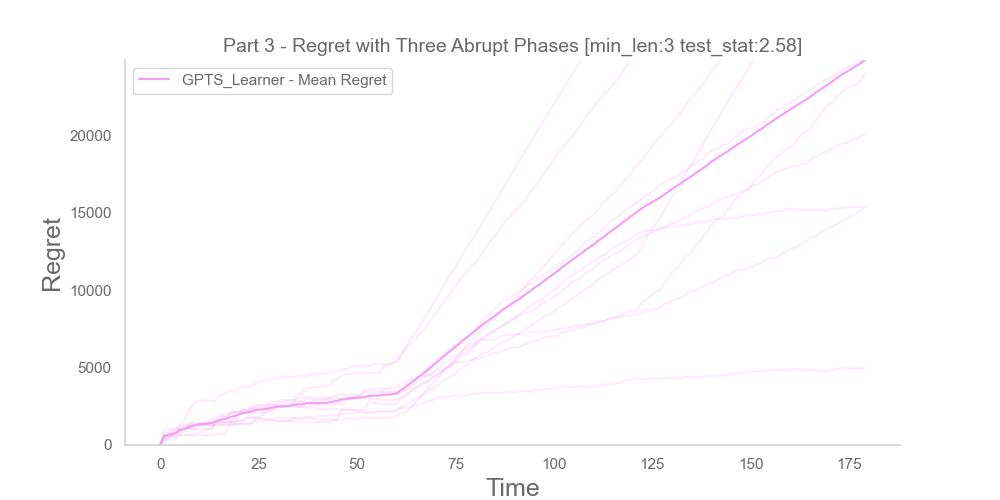
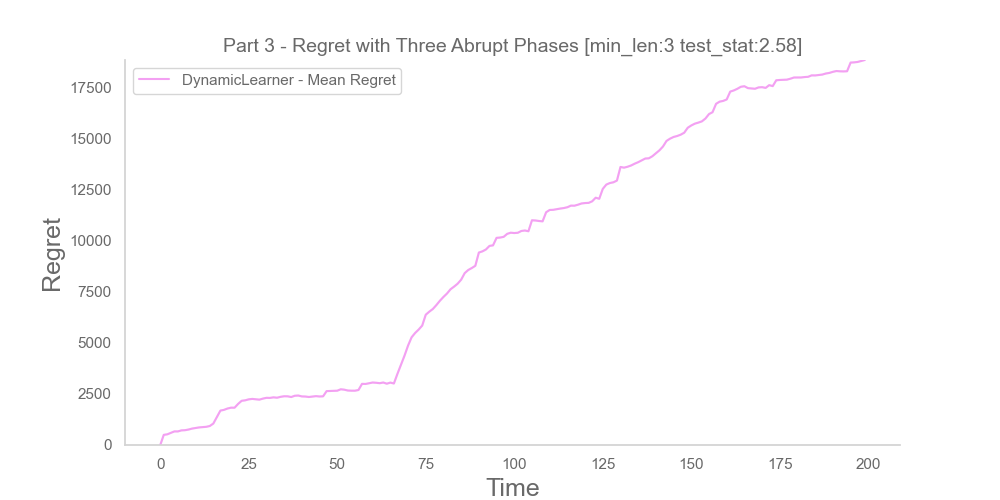
final test for part 3

diff --git a/project/part_3/Testing_part3.py b/project/part_3/Testing_part3.py
@@ -6,7 +6,7 @@ import numpy as np
 
 from project.dia_pckg.Config import *
 from project.dia_pckg.plot_style.cb91visuals import *
-from project.part_2.GPTS_Learner import GPTS_Learner as Learner
+from project.part_2.GP_Learner import GP_Learner as Learner
 from project.part_2.Learning_experiment import execute_experiment
 from project.part_2.Utils import compute_clairvoyant
 from project.part_3.AbruptBiddingEnvironment import AbruptBiddingEnvironment
@@ -14,18 +14,18 @@ from project.part_3.DLChangeDetect import DLChangeDetect
 from project.part_3.DynamicLearner import DynamicLearner
 
 
-def test_part3(n_experiments=3,
+def test_part3(n_experiments=25,
                chart_path='other_files/testing_part3.png',
                title='Part 3 - Regret with Three Abrupt Phases',
+               win_length=30,
                dl_change_detect_min_len=3,
-               dl_change_detect_test_stat=3):
+               dl_change_detect_test_stat=2.58):
     np.random.seed(0)
 
     bids = np.linspace(0, max_bid, n_arms_advertising)
     args = []
 
     learners_types = [Learner, DynamicLearner, DLChangeDetect]
-    
     for i in range(n_experiments):
         env_i = AbruptBiddingEnvironment(bids)
         for learner in learners_types:
@@ -36,6 +36,7 @@ def test_part3(n_experiments=3,
                 'n_subcamp': n_subcamp,
                 'n_arms': n_arms_advertising,
                 'n_obs': n_days,
+                'win_length': win_length,
                 'dl_change_detect_min_len': dl_change_detect_min_len,
                 'dl_change_detect_test_stat': dl_change_detect_test_stat
             }
@@ -65,7 +66,7 @@ def test_part3(n_experiments=3,
             opt_phase_clicks = compute_clairvoyant(args['environment'], phase=phase)[1]
             opt_clicks[int(phase * phase_len):int((phase + 1) * phase_len)] = opt_phase_clicks
             #TODO: rimuovere, è per il testing
-            print('Optimal [phase = ' + str(phase) + ']: ' + str(opt_phase_clicks) + str(compute_clairvoyant(args['environment'], phase=phase)[0]))
+            ## print('Optimal [phase = ' + str(phase) + ']: ' + str(opt_phase_clicks) + str(compute_clairvoyant(args['environment'], phase=phase)[0]))
         # adding to dictionary
         if learner_name in list(opt_clicks_per_experiments.keys()):
             opt_clicks_per_experiments[learner_name].append(opt_clicks)
@@ -95,14 +96,12 @@ def test_part3(n_experiments=3,
 
 
 if __name__ == '__main__':
-    min_lens = [4]#[1, 2, 3, 4, 5]
-    #test_stats = [2.5, 3, 4, 5]
-    test_stat = 2.58
 
     for min_len in min_lens:
-        #for test_stat in test_stats:
-        test_part3(n_experiments=1,
-                   chart_path=f'other_files/part3_min-len{min_len}_test-stat{test_stat}.png',
-                   title=f'Part 3 - Regret with Three Abrupt Phases [min_len:{min_len} test_stat:{test_stat}]',
-                   dl_change_detect_min_len=min_len,
-                   dl_change_detect_test_stat=test_stat)
+        for lw in multiple_len_window:
+            test_part3(n_experiments=25,
+                       chart_path=f'other_files/part3_min-len{min_len}_test-stat{z_score}_window_length:{lw}.png',
+                       title=f'Part 3 - Regret with Three Abrupt Phases [min_len:{min_len} z_score:{z_score} window_length:{lw}]',
+                       win_length=lw,
+                       dl_change_detect_min_len=min_len,
+                       dl_change_detect_test_stat=z_score)

diff --git a/project/TestingOneShot.py b/project/TestingOneShot.py
@@ -3,6 +3,8 @@ import sys
 from datetime import datetime
 import numpy as np
 
+
+from project.dia_pckg.Config import *
 from project.part_2.Testing_part2 import test_part2
 from project.part_3.Testing_part3 import test_part3
 from project.part_4.Testing_Env_4 import test_part4
@@ -11,7 +13,7 @@ from project.part_6.Testing_Env_6 import test_part6
 from project.part_7_binomial.Testing_Env_7 import test_part7 as t7_binomial
 from project.part_7_normal.Testing_Env_7 import test_part7 as t7_normal
 
-n_experiment = 1
+n_experiment = 25
 np.random.seed(0)
 
 testing_setup = {
@@ -81,16 +83,14 @@ if __name__ == '__main__':
         # PART 3
         print_('PART 3')
 
-        min_lens = [4]#[3, 4, 5, 6, 7]
-        test_stat = 2.58
-
         for min_len in min_lens:
-            # for test_stat in test_stats:
-            test_part3(n_experiments=n_experiment,
-                       chart_path=f'{charts_path}/part3_min-len{min_len}_test-stat{test_stat}.png',
-                       title=f'Part 3 - Regret with Three Abrupt Phases [min_len:{min_len} test_stat:{test_stat}]',
-                       dl_change_detect_min_len=min_len,
-                       dl_change_detect_test_stat=test_stat)
+            for lw in multiple_len_window:
+                test_part3(n_experiments=n_experiment,
+                           chart_path=f'{charts_path}/part3_min-len{min_len}_z_score{z_score}.png',
+                           title=f'Part 3 - Regret with Three Abrupt Phases [min_len:{min_len} z_score:{z_score} window_length:{lw}]',
+                           win_length=lw,
+                           dl_change_detect_min_len=min_len,
+                           dl_change_detect_test_stat=z_score)
             print_(f'Sub-test completed.\n'
                    f'Time: {datetime.now()}\n')
         print_(f'Test completed.\n'
@@ -181,14 +181,14 @@ if __name__ == '__main__':
         for artificial_noise_ADV in artificial_noise_ADVs:
             for artificial_noise_CR in artificial_noise_CRs:
                 t7_binomial(n_experiments=n_experiment,
-                           demand_chart_path=demand_curves_chart_path,
-                           demand_chart_title=demand_curves_title,
-                           artificial_noise_ADV=artificial_noise_ADV,
-                           artificial_noise_CR=artificial_noise_CR,
-                           results_chart_path=f'{charts_path}/part7_'
+                            demand_chart_path=demand_curves_chart_path,
+                            demand_chart_title=demand_curves_title,
+                            artificial_noise_ADV=artificial_noise_ADV,
+                            artificial_noise_CR=artificial_noise_CR,
+                            results_chart_path=f'{charts_path}/part7_'
                                               f'artificial-noise-ADV{artificial_noise_ADV}_'
                                               f'artificial-noise-CR{artificial_noise_CR}.png',
-                           results_chart_title=f'Part 7 - Regret ['
+                            results_chart_title=f'Part 7 - Regret ['
                                                f'artificial-noise-ADV:{artificial_noise_ADV} '
                                                f'artificial-noise-CR:{artificial_noise_CR}]')
                 print_(f'Sub-test completed.\n'

diff --git a/project/part_2/Learning_experiment.py b/project/part_2/Learning_experiment.py
@@ -22,7 +22,10 @@ def execute_experiment(args):
             dl_change_detect_min_len = args['dl_change_detect_min_len']
             dl_change_detect_test_stat = args['dl_change_detect_test_stat']
             learners.append(
-                learner(bids, min_len=dl_change_detect_min_len, test_stat=dl_change_detect_test_stat))
+                learner(bids, min_len=dl_change_detect_min_len, z_score=dl_change_detect_test_stat))
+        elif learner.__name__ == 'DynamicLearner':
+            win_length = args['win_length']
+            learners.append(learner(bids, win_length))
         else:
             learners.append(learner(bids))
 
@@ -45,8 +48,8 @@ def execute_experiment(args):
         clicks = env.round(pulled)
 
         # TODO rimuovere, è per testing
-        if (learner.__name__ == 'DLChangeDetect'):
-            print('DAY: ' + str(d)  + '\n ALLOC: ' + str(allocations))
+        # if (learner.__name__ == 'DLChangeDetect'):
+        #     print('DAY: ' + str(d)  + '\n ALLOC: ' + str(allocations))
 
         #print('DAY: ' + str(d) + '\n LEARNER: ' + str(learner.__name__) + '\n ALLOC: ' + str(allocations))
 

diff --git a/project/part_3/DLChangeDetect.py b/project/part_3/DLChangeDetect.py
@@ -1,15 +1,15 @@
 import numpy as np
 
-from project.part_2.GPTS_Learner import GPTS_Learner
+from project.part_2.GP_Learner import GP_Learner
 
 
 # Extension of the standard GP_Learner for implementing a sliding-window combinatorial
 # bandit algorithm due to the presence of multiple abrupt phases
-class DLChangeDetect(GPTS_Learner):
-    def __init__(self, arms, min_len=3, test_stat=3):
+class DLChangeDetect(GP_Learner):
+    def __init__(self, arms, min_len=3, z_score=2.58):
         super().__init__(arms)
         self.min_len = min_len  # minimum number of data in the arm
-        self.test_stat = test_stat
+        self.z_score = z_score
         self.day = 0
 
     def index_is_of_arm(self, pulled_arm):
@@ -28,7 +28,7 @@ class DLChangeDetect(GPTS_Learner):
 
             test = np.abs(mean_diff / std) if std != 0 else 0
 
-            if test > self.test_stat:
+            if test > self.z_score:
                 print("Change detected (DAY: " + str(self.day) + "): len=" +
                       str(len(self.rewards_per_arm[pulled_arm])) +
                       " std=" + str(std) +

diff --git a/project/part_3/DynamicLearner.py b/project/part_3/DynamicLearner.py
@@ -1,17 +1,18 @@
 import numpy as np
 
 from project.dia_pckg.Config import *
-from project.part_2.GPTS_Learner import GPTS_Learner
+from project.part_2.GP_Learner import GP_Learner
 
 
 # Extension of the standard GP_Learner for implementing a sliding-window combinatorial
 # bandit algorithm due to the presence of multiple abrupt phases
-class DynamicLearner(GPTS_Learner):
-    def __init__(self, arms):
+class DynamicLearner(GP_Learner):
+    def __init__(self, arms, win_length=30):
         super().__init__(arms)
+        self.win_length = win_length
 
     def update_observations(self, pulled_arm, reward):
-        if len(self.collected_rewards) >= len_window:
+        if len(self.collected_rewards) >= self.win_length:
             index_arm = np.where(self.arms == self.pulled_arms[0])[0][0]
             self.rewards_per_arm[index_arm].pop(0)
             self.pulled_arms.pop(0)

diff --git a/project/part_2/Testing_part2.py b/project/part_2/Testing_part2.py
@@ -6,7 +6,7 @@ import numpy as np
 from project.dia_pckg.Config import *
 from project.dia_pckg.plot_style.cb91visuals import *
 from project.part_2.BiddingEnvironment import BiddingEnvironment
-from project.part_2.GPTS_Learner import GPTS_Learner
+from project.part_2.GP_Learner import GP_Learner
 from project.part_2.Learning_experiment import execute_experiment
 from project.part_2.Utils import compute_clairvoyant
 
@@ -22,7 +22,7 @@ def test_part2(n_experiments=10,
     for i in range(n_experiments):
         env_i = BiddingEnvironment(bids)
         args_i = {
-            'learner': GPTS_Learner,
+            'learner': GP_Learner,
             'environment': env_i,
             'bids': bids,
             'n_subcamp': n_subcamp,

diff --git a/project/part_7_normal/SubCampaignHandler.py b/project/part_7_normal/SubCampaignHandler.py
@@ -1,14 +1,14 @@
 import numpy as np
 
-from project.part_2.GPTS_Learner import GPTS_Learner
+from project.part_2.GP_Learner import GP_Learner
 
 
 class SubCampaignHandler:
 
     def __init__(self, class_name, bids, prices):
         self.class_name = class_name
-        self.learnerADV = GPTS_Learner(bids)
-        self.learnerCR = GPTS_Learner(prices)
+        self.learnerADV = GP_Learner(bids)
+        self.learnerCR = GP_Learner(prices)
 
     def daily_update(self, arm_price, arm_adv, clicks, purchases):
         self.learnerADV.update(arm_adv, clicks)

diff --git a/project/part_7_binomial/SubCampaignHandler.py b/project/part_7_binomial/SubCampaignHandler.py
@@ -1,6 +1,6 @@
 import numpy as np
 
-from project.part_2.GPTS_Learner import GPTS_Learner
+from project.part_2.GP_Learner import GP_Learner
 from project.part_6.Pricing import Pricing
 
 
@@ -8,7 +8,7 @@ class SubCampaignHandler:
 
     def __init__(self, class_name, bids, prices, multiclasshandler):
         self.class_name = class_name
-        self.learnerADV = GPTS_Learner(bids)
+        self.learnerADV = GP_Learner(bids)
         self.prices = prices
         self.pricing = Pricing(class_name, multiclasshandler, len(prices), True)
 

diff --git a/project/part_6/Advertising.py b/project/part_6/Advertising.py
@@ -1,4 +1,4 @@
-from project.part_2.GPTS_Learner import GPTS_Learner
+from project.part_2.GP_Learner import GP_Learner
 from project.part_2.Utils import compute_clairvoyant, get_idx_arm_from_allocation
 
 
@@ -17,7 +17,7 @@ class Advertising:
 
         self.env = bidding_environment
 
-        self.learner = GPTS_Learner(self.env.bids)
+        self.learner = GP_Learner(self.env.bids)
 
         self.daily_clicks = 0
         self.optimal_clicks = self.get_optimal()

diff --git a/project/part_2/GP_Learner.py b/project/part_2/GP_Learner.py
@@ -6,7 +6,7 @@ from project.dia_pckg.Learner import Learner
 from project.dia_pckg.plot_style.cb91visuals import *
 
 
-class GPTS_Learner(Learner):
+class GP_Learner(Learner):
 
     def __init__(self, arms):
         super().__init__(len(arms))
